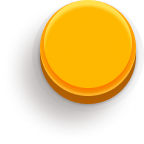
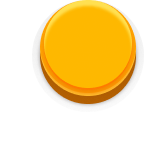
feat: style optimization

Changed region(s): [[0.1389, 0.2222, 0.8056, 0.8611]]

diff --git a/src/pageComponents/Recreation/components/GoButton/index.tsx b/src/pageComponents/Recreation/components/GoButton/index.tsx
@@ -91,7 +91,7 @@ function GoButton({
     [Status.DISABLED]: (
       <>
         <span
-          className={`font-fonarto font-[500] text-[#fff] text-stroke-[#8E8E8E] ${
+          className={`font-fonarto font-[500] tracking-tight text-[#fff] text-stroke-[#8E8E8E] ${
             isMobile ? 'text-[48px] leading-[48px] mt-[10px]' : 'text-[72px] leading-[72px] mb-[4px] mt-[2px]'
           }`}>
           Go
@@ -165,17 +165,17 @@ function GoButton({
               onTouchStart={(event) => {
                 event.preventDefault();
                 setMBtnPress(true);
-                go && go();
               }}
               onTouchEnd={() => {
                 setMBtnPress(false);
+                go && go();
               }}
               className={`${styles['btn-mobile']} ${styles['button__icon']} cursor-custom relative flex ${
                 mBtnPress && styles['btn-mobile-press']
               } ${status === Status.DISABLED && styles['btn-mobile-disabled']}`}>
               <div
                 className={`${mBtnPress ? 'top-[4px]' : ''} ${
-                  status === Status.LOADING ? 'top-[12px] left-[64px]' : 'left-[56px] top-0'
+                  status === Status.LOADING ? 'top-[12px] left-[64px]' : 'left-[54px] top-0'
                 } absolute  flex flex-col w-fit h-fit items-center relative justify-center`}>
                 {statusCom[status]}
               </div>

diff --git a/src/pageComponents/Recreation/utils/getList.ts b/src/pageComponents/Recreation/utils/getList.ts
@@ -17,7 +17,7 @@ export const getList = (
   linkedList.current?.append(current);
 
   if (node.arrow) {
-    let nextPosition: any = [];
+    let nextPosition: [number, number] = [nodePosition[0], nodePosition[1]];
     switch (node.arrow) {
       case ArrowDirection.LEFT:
         nextPosition = [nodePosition[0], nodePosition[1] - 1];

diff --git a/src/pageComponents/Recreation/components/GoButton/index.module.css b/src/pageComponents/Recreation/components/GoButton/index.module.css
@@ -19,11 +19,11 @@
   }
 
   .dice-content-mobile {
-    @apply w-[44px] h-[44px] ml-[4px];
+    @apply w-[44px] h-[44px] ml-[7px];
   }
 
   .dice-content-mobile-press {
-    @apply mt-[8px] mr-[2px];
+    @apply mt-[3px];
   }
 
   .button__icon {
